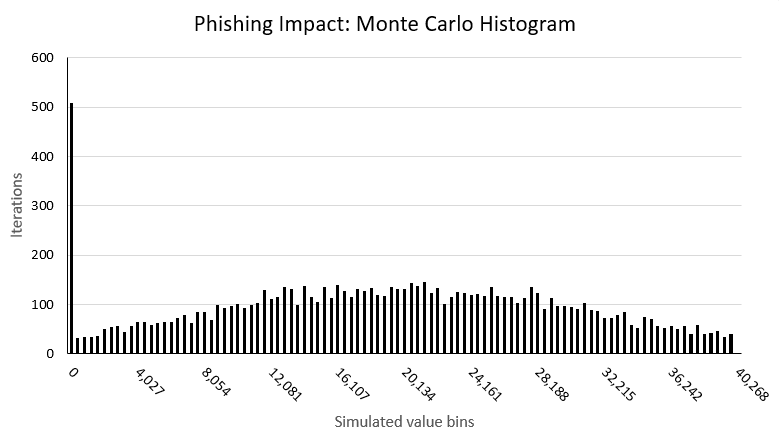
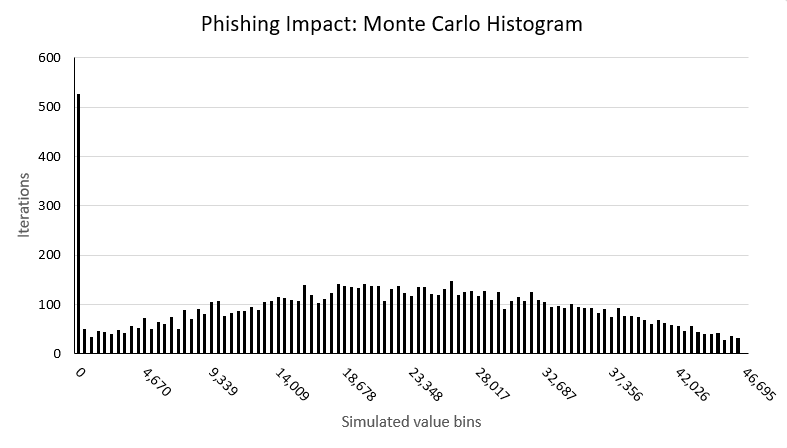
fixing graph phishing impact

Changed region(s): [[0.0, 0.2059, 0.9859, 0.9706], [0.2465, 0.0294, 0.7394, 0.0882], [0.0308, 0.1176, 0.9551, 0.1471]]

diff --git a/KandRStyle/ut.tex b/KandRStyle/ut.tex
@@ -2275,7 +2275,7 @@ Likelihood
 \begin{figure}[H]
   \centering
   \rotatebox{0}{\scalebox{1}{\includegraphics[width=\linewidth]{figures/histogram_phishing_impact.png}}}
-  \caption{We ran a\index{Monte Carlo simulation} Monte Carlo simulation of 10,000 iterations with a normal distribution to spread random instances between bounds taken from means of seven year samples. We set a lower bound that the events would cost at \$0.  We set an upper bound that the events would cost \$40,268.  \protect\endnote{\index{sample} Sample size was set equivalent to the City of\index{Chattanooga} Chattanooga to determine the per capita rates for each year over data from \index{American Samoa} American Samoa and\index{California} California.  The medians of those rates were used to set upper and lower bounds with \index{American Samoa} American Samoa and\index{California} California representing low and high \index{cybercrime} cybercrime counts respectively.}
+  \caption{We ran a\index{Monte Carlo simulation} Monte Carlo simulation of 10,000 iterations with a normal distribution to spread random instances between bounds taken from means of seven year samples. We set a lower bound that the events would cost at \$0.  We set an upper bound that the events would cost \$46,695.  \protect\endnote{\index{sample} Sample size was set equivalent to the City of\index{Chattanooga} Chattanooga to determine the per capita rates for each year over data from \index{American Samoa} American Samoa and\index{California} California.  The medians of those rates were used to set upper and lower bounds with \index{American Samoa} American Samoa and\index{California} California representing low and high \index{cybercrime} cybercrime counts respectively.}
   \protect\endnote{Monte Carlo Modeling Toolkit authored by Derek E. Brink, CISSP, \url{www.linkedin.com/in/derekbrink}. March 2023.}
   }
   \label{fig:screenshot-montecarlo-phishing-impact-histo}
@@ -2286,7 +2286,7 @@ Likelihood
   \[
 \mathrm{CI}_{80\%}(\theta) = [\$4,661.40, \$35,678.52]
 \]
-  \caption{A\index{Monte Carlo simulation} Monte Carlo simulation with a normal distribution suggests that there is a 90\% probability that\index{phishing} phishing events will cost \$4,661.40 or more in a year.  There is a 50\% likelihood that they will cost \$20,179.13 or more in a year.  There is a 10\% chance that they will cost \$35,678.52 or more in a year. \protect\endnote{\index{sample} sample size was set equivalent to the City of\index{Chattanooga} Chattanooga to determine the per capita rates for each year over data from \index{American Samoa} American Samoa and\index{California} California.  H with \index{American Samoa} American Samoa and\index{California} California representing low and high \index{cybercrime} cybercrime impact values respectively.}
+  \caption{A\index{Monte Carlo simulation} Monte Carlo simulation with a normal distribution suggests that there is a 90\% probability that\index{phishing} phishing events will cost \$5,081.29 or more in a year.  There is a 50\% likelihood that they will cost \$23,193.11 or more in a year.  There is a 10\% chance that they will cost \$41,415.88 or more in a year. \protect\endnote{\index{sample} sample size was set equivalent to the City of\index{Chattanooga} Chattanooga to determine the per capita rates for each year over data from \index{American Samoa} American Samoa and\index{California} California.  H with \index{American Samoa} American Samoa and\index{California} California representing low and high \index{cybercrime} cybercrime impact values respectively.}
   \protect\endnote{Monte Carlo Modeling Toolkit authored by Derek E. Brink, CISSP, \url{www.linkedin.com/in/derekbrink}. March 2023.}
   }
   \label{fig:screenshot-montecarlo-phishing-impact-percent}
